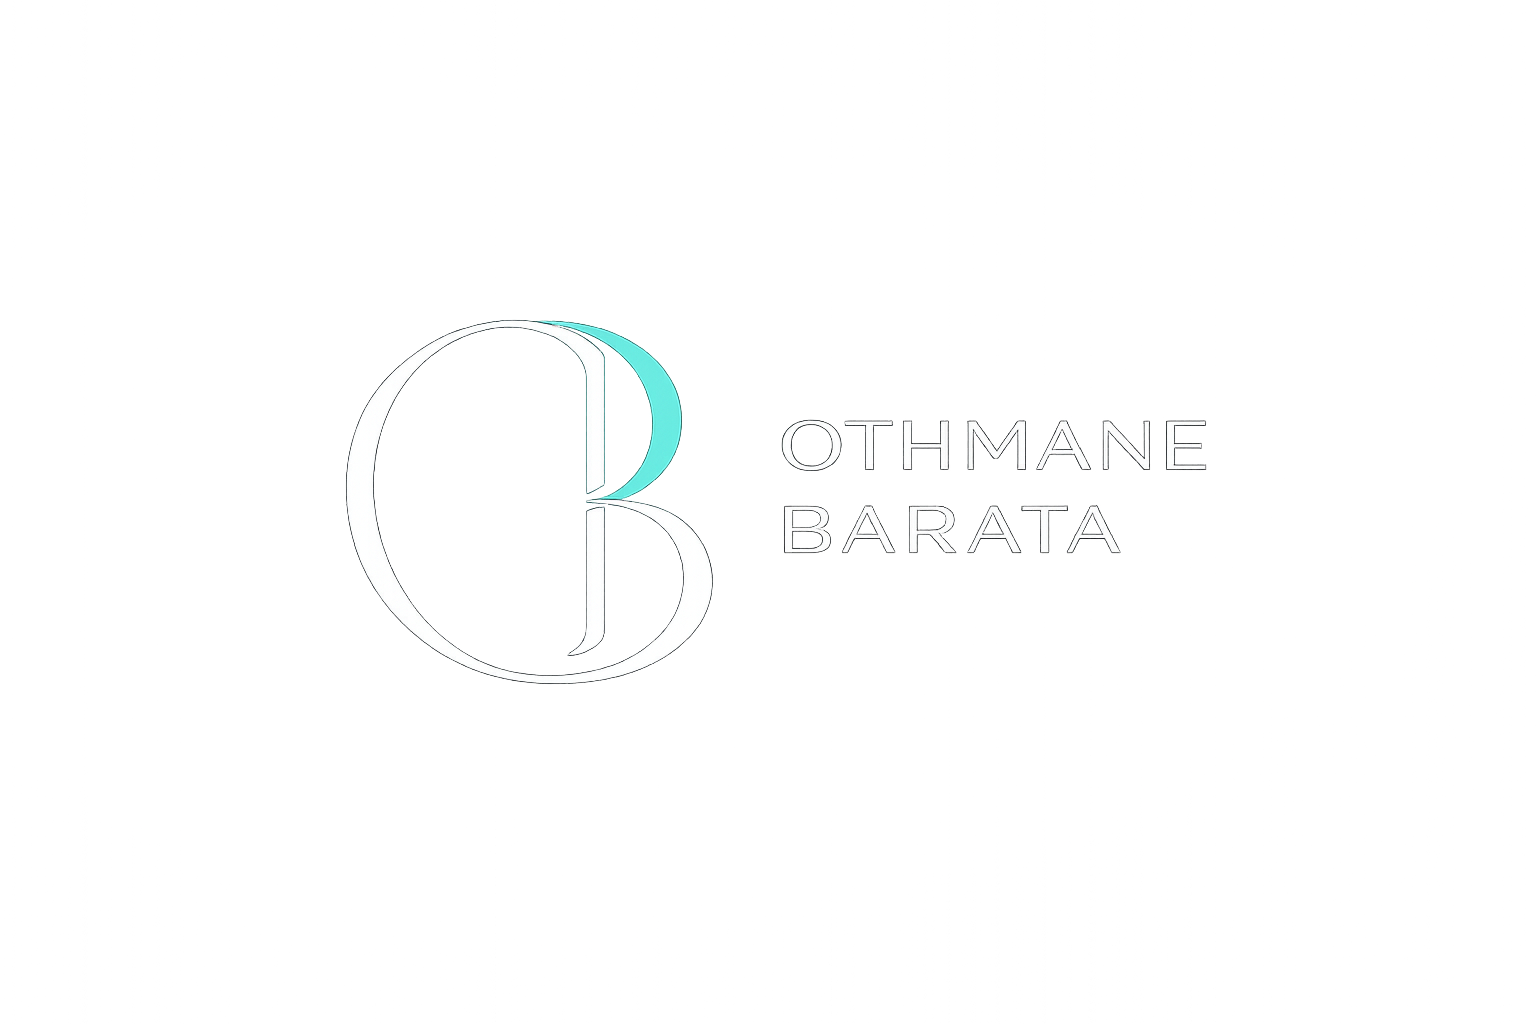
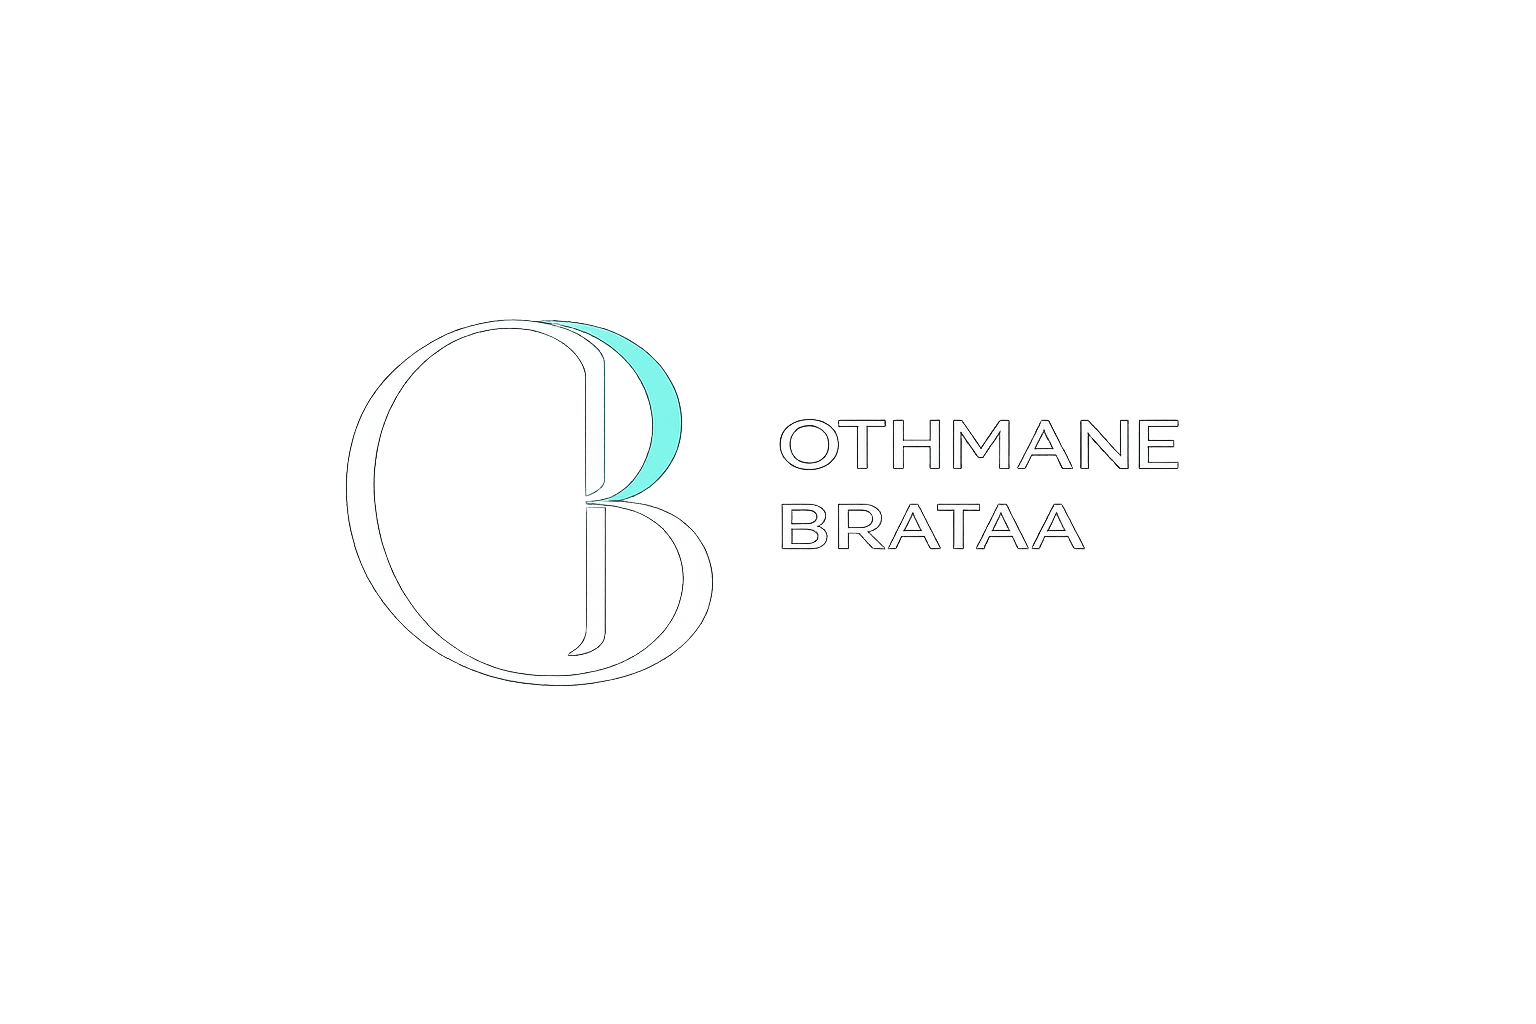
kl

diff --git a/index.html b/index.html
@@ -4,7 +4,7 @@
     <meta charset="UTF-8" />
     <link rel="icon" type="image/x-icon" href="/images/favicon.ico" />
     <meta name="viewport" content="width=device-width, initial-scale=1.0" />
-    <title>Othmane Barata Portfolio</title>
+    <title>Othmane Brataa Portfolio</title>
   </head>
   <body>
     <div id="root"></div>
